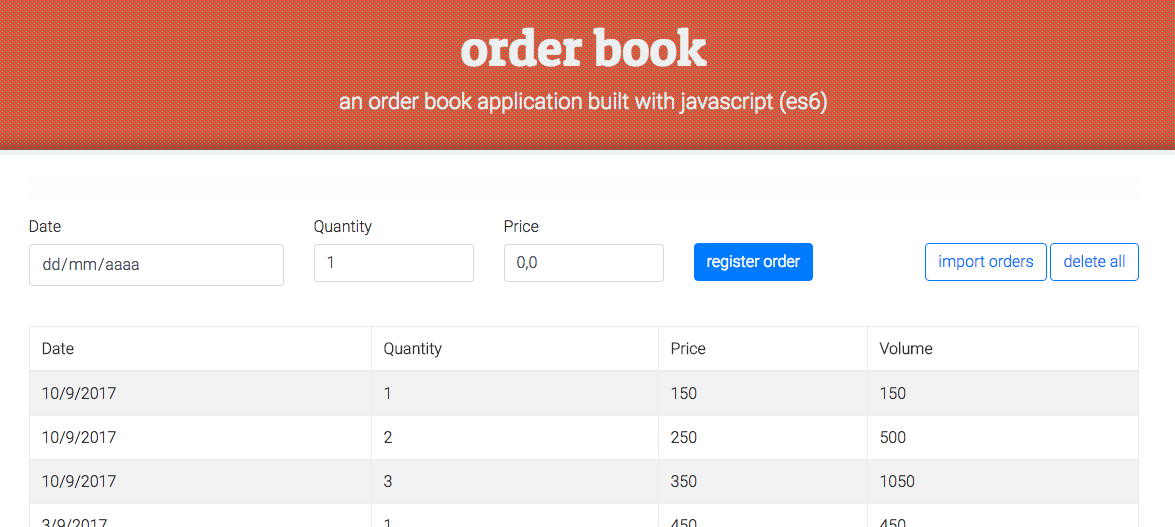
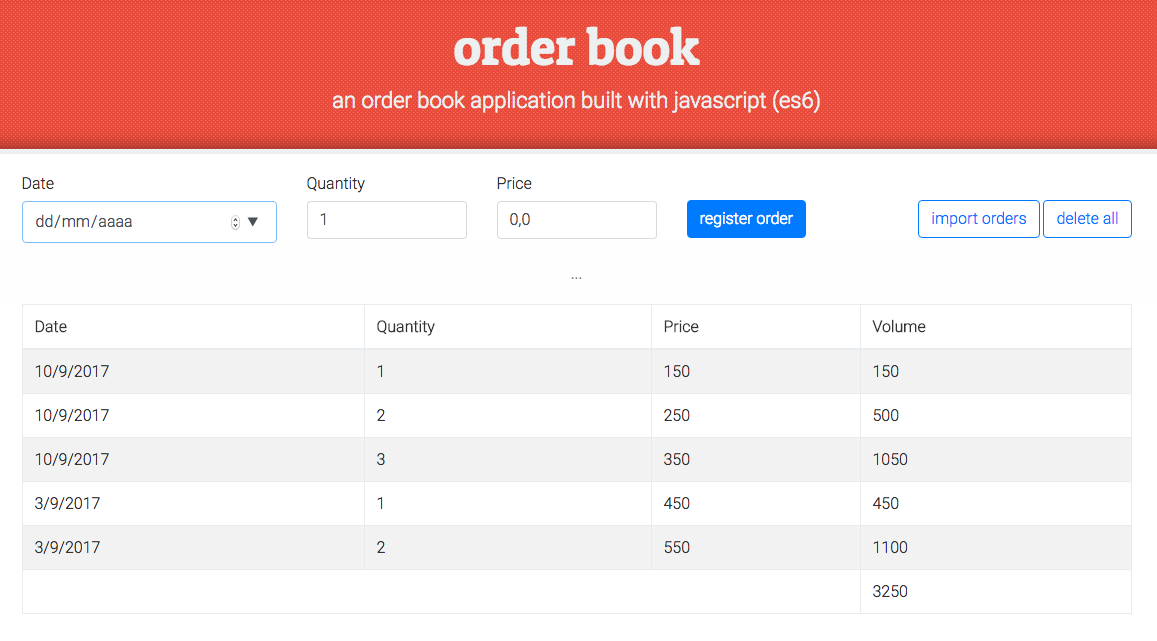
Finish layout.

diff --git a/client/index.html b/client/index.html
@@ -8,47 +8,7 @@
 
     <link rel="stylesheet" href="https://fonts.googleapis.com/css?family=Patua+One|Roboto:300">
     <link rel="stylesheet" href="https://maxcdn.bootstrapcdn.com/bootstrap/4.0.0-beta/css/bootstrap.min.css">    
-    <style>
-        *, *:after, *:before {
-            margin: 0;
-            padding: 0;
-            box-sizing: border-box;
-        }
-        body {
-            font: 16px 'Roboto', sans-serif;
-            font-weight: 300;
-            color: #333;
-        }
-
-        header {
-            width: 100%;
-            text-align: center;
-            text-transform: lowercase;
-            padding: 20px;
-            color: #ecf0f1;
-            border-bottom: 5px solid #ecf0f1;
-            box-shadow: inset 0px -5px 20px 0px rgba(0, 0, 0, 0.3);
[1 lines of base64/hex data omitted]
-        }
-        header h1 {
-            font: 52px 'Patua One', sans-serif;
-            margin-bottom: 10px;
-        }
-        header p {
-            font-size: 22px;
-        }
-
-        #app {
-            margin: 20px 0;
-        }
-        #app__table {
-            margin-top: 40px;
-        }
-        .controls__buttons {
-            padding-top: 26px;
-        }
-
-    </style>
+    <link rel="stylesheet" href="css/style.css">
 </head>
 <body>
     
@@ -61,8 +21,6 @@
         
         <form id="app__controls">
             <div class="container">
-                <div class="alert alert-light text-center" role="alert"></div>
-
                 <div class="row">
                     <div class="col-sm-3">
                         <div class="controls__input">
@@ -97,6 +55,8 @@
             </div>
         </form>
 
+        <div class="alert alert-light text-center" role="alert">...</div>
+
         <div id="app__table">
             <div class="container">
                 <table class="table table-bordered table-striped">
@@ -108,48 +68,46 @@
                             <th>Volume</th>
                         </tr>
                     </thead>
-                    <tbody>
-                            
-                                <tr>
-                                    <td>10/9/2017</td>
-                                    <td>1</td>
-                                    <td>150</td>
-                                    <td>150</td>
-                                </tr>
-                            
-                                <tr>
-                                    <td>10/9/2017</td>
-                                    <td>2</td>
-                                    <td>250</td>
-                                    <td>500</td>
-                                </tr>
-                            
-                                <tr>
-                                    <td>10/9/2017</td>
-                                    <td>3</td>
-                                    <td>350</td>
-                                    <td>1050</td>
-                                </tr>
-                            
-                                <tr>
-                                    <td>3/9/2017</td>
-                                    <td>1</td>
-                                    <td>450</td>
-                                    <td>450</td>
-                                </tr>
-                            
-                                <tr>
-                                    <td>3/9/2017</td>
-                                    <td>2</td>
-                                    <td>550</td>
-                                    <td>1100</td>
-                                </tr>
-                            
-                        </tbody>
+                    <tbody>                            
+                        <tr>
+                            <td>10/9/2017</td>
+                            <td>1</td>
+                            <td>150</td>
+                            <td>150</td>
+                        </tr>
+                    
+                        <tr>
+                            <td>10/9/2017</td>
+                            <td>2</td>
+                            <td>250</td>
+                            <td>500</td>
+                        </tr>
+                    
+                        <tr>
+                            <td>10/9/2017</td>
+                            <td>3</td>
+                            <td>350</td>
+                            <td>1050</td>
+                        </tr>
+                    
+                        <tr>
+                            <td>3/9/2017</td>
+                            <td>1</td>
+                            <td>450</td>
+                            <td>450</td>
+                        </tr>
+                    
+                        <tr>
+                            <td>3/9/2017</td>
+                            <td>2</td>
+                            <td>550</td>
+                            <td>1100</td>
+                        </tr>                            
+                    </tbody>
                     <tfoot>
                         <tr>
                             <td colspan="3"></td>
-                            <td>0</td>
+                            <td>3250</td>
                         </tr>
                     </tfoot>
                 </table>

diff --git a/client/css/style.css b/client/css/style.css
@@ -1,0 +1,53 @@
+/*  General
+-------------------------------------------------------- */
+
+*, *:after, *:before {
+    margin: 0;
+    padding: 0;
+    box-sizing: border-box;
+}
+body {
+    font: 16px 'Roboto', sans-serif;
+    font-weight: 300;
+    color: #333;
+}
+
+/*  Header
+-------------------------------------------------------- */
+
+header {
+    width: 100%;
+    text-align: center;
+    text-transform: lowercase;
+    padding: 20px;
+    color: #ecf0f1;
+    border-bottom: 5px solid #ecf0f1;
+    box-shadow: inset 0px -5px 20px 0px rgba(0, 0, 0, 0.3);
[1 lines of base64/hex data omitted]
+}
+header h1 {
+    font: 52px 'Patua One', sans-serif;
+    margin-bottom: 10px;
+}
+header p {
+    font-size: 22px;
+}
+
+/*  App: General
+-------------------------------------------------------- */
+
+#app {
+    margin: 20px 0;
+}
+
+#app .alert {
+    margin-bottom: 0;
+    padding: 20px;
+}
+
+/*  App: Controls
+-------------------------------------------------------- */
+
+.controls__buttons {
+    padding-top: 26px;
+}
